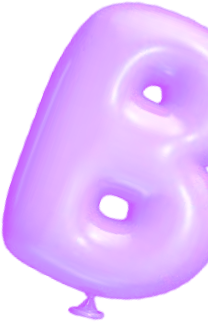
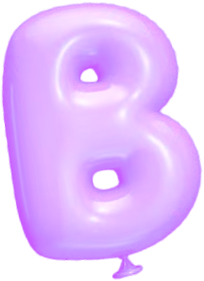
animation v1

diff --git a/styles.css b/styles.css
@@ -220,20 +220,47 @@ li img {
 
 /* Balloons */
 .balloons {
-  width: 30%;
-  height: 100vh;
   position: fixed;
-  top: 0;
-  margin: -1.5rem;
-  display: flex;
-  justify-content: space-between;
-  align-items: center;
+  /* width: 10rem; */
+  width: 100%;
+  height: 100vh;
   user-select: none;
 }
 
-.balloons img { width: auto; }
-.balloons.left { left: 0; }
-.balloons.right { right: 0; }
+.balloons img.b-purple {
+  position: absolute;
+  bottom: -100px; /* Start position */
+  left: 0%;
+  animation: move-up 12s linear infinite; /* Infinite animation */
+}
+
+.balloons img.o-yellow {
+  position: absolute;
+  bottom: -50px; /* Start position */
+  left: 75%;
+  animation: move-up 16s linear infinite; /* Infinite animation */
+}
+
+.balloons img.o-orange {
+  position: absolute;
+  bottom: -100px; /* Start position */
+  left: 25%;
+  animation: move-up 16s linear infinite; /* Infinite animation */
+}
+
+.balloons img.b-green {
+  position: absolute;
+  bottom: -100px; /* Start position */
+  left: 85%;
+  animation: move-up 12s linear infinite; /* Infinite animation */
+}
+
+@keyframes move-up {
+  0% { transform: translate(0, 100vh); }
+  100% { transform: translate(0, -110vh); }
+}
+
+
 
 /* Footer */
 footer {

diff --git a/index.html b/index.html
@@ -16,13 +16,11 @@
 
 <body>
 
-  <div class="balloons left">
-    <img alt="" src="./img/o-purple.png" style="margin-top: 20rem;"/>
-    <img alt="" src="./img/b-green.png" style="margin-bottom: auto;"/>
-  </div>
-  <div class="balloons right">
-    <img alt="" src="./img/o-yellow.png" style="margin-bottom: 30rem;"/>
-    <img alt="" src="./img/b-purple.png" style="margin-top: auto;" />
+  <div class="balloons">
+    <img alt="" src="./img/b-purple.png" class="b-purple" />
+    <img alt="" src="./img/o-orange.png" class="o-orange" />
+    <img alt="" src="./img/o-yellow.png" class="o-yellow" />
+    <img alt="" src="./img/b-green.png" class="b-green" />
   </div>
 
   <div class="content">
